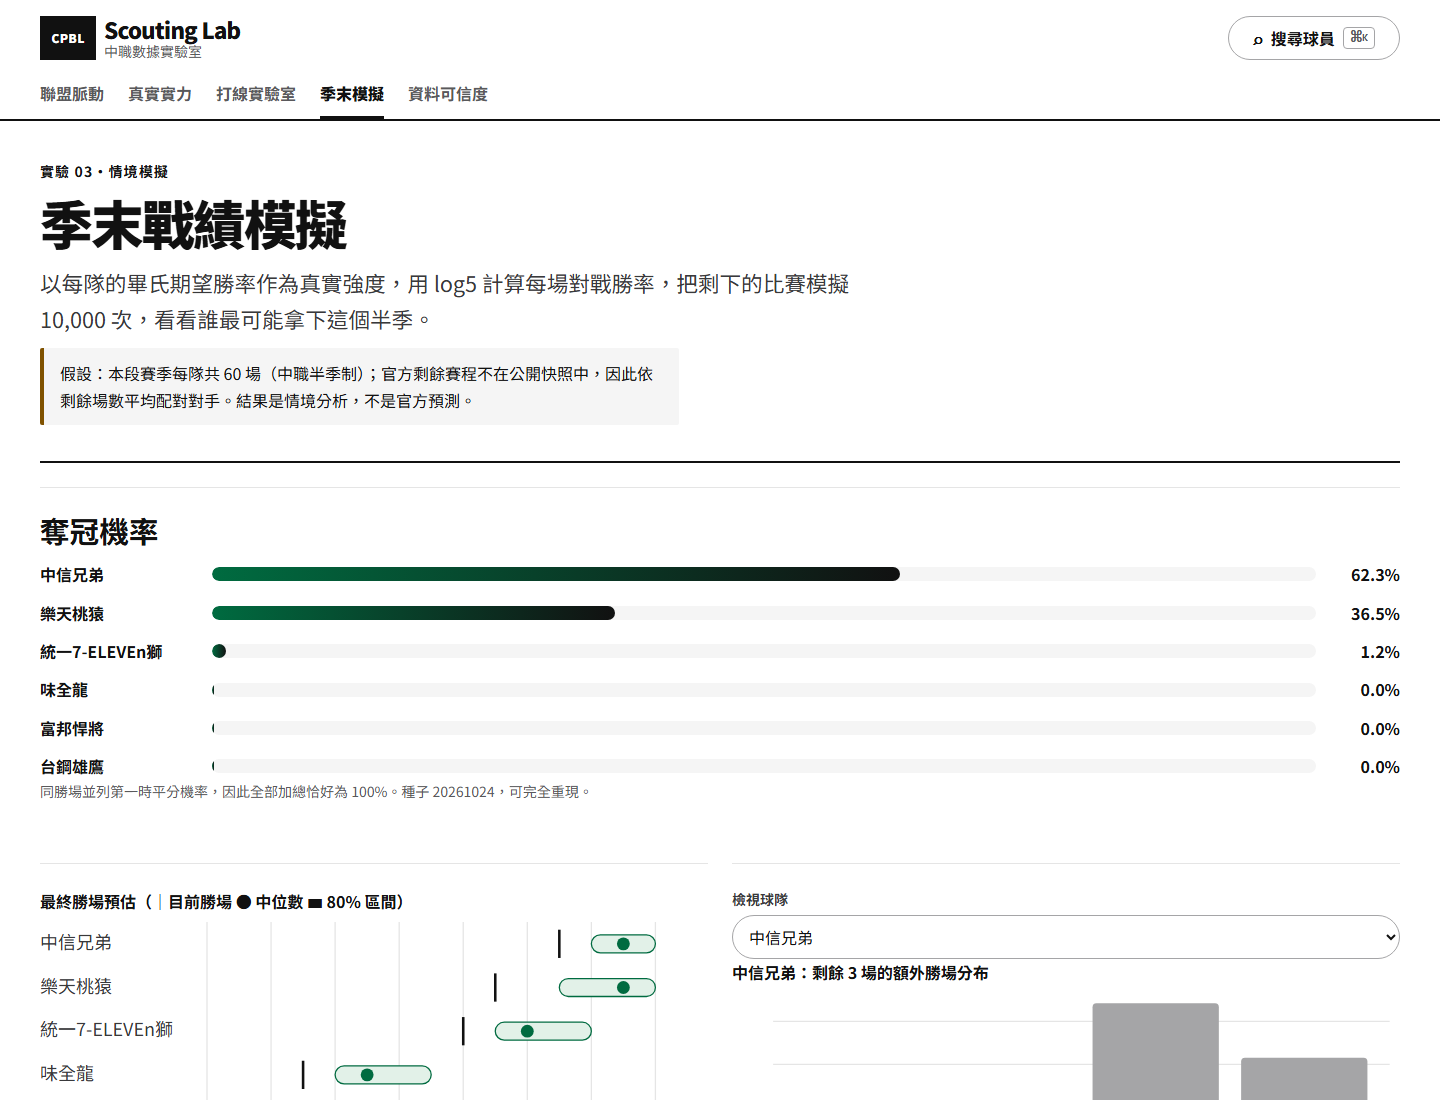
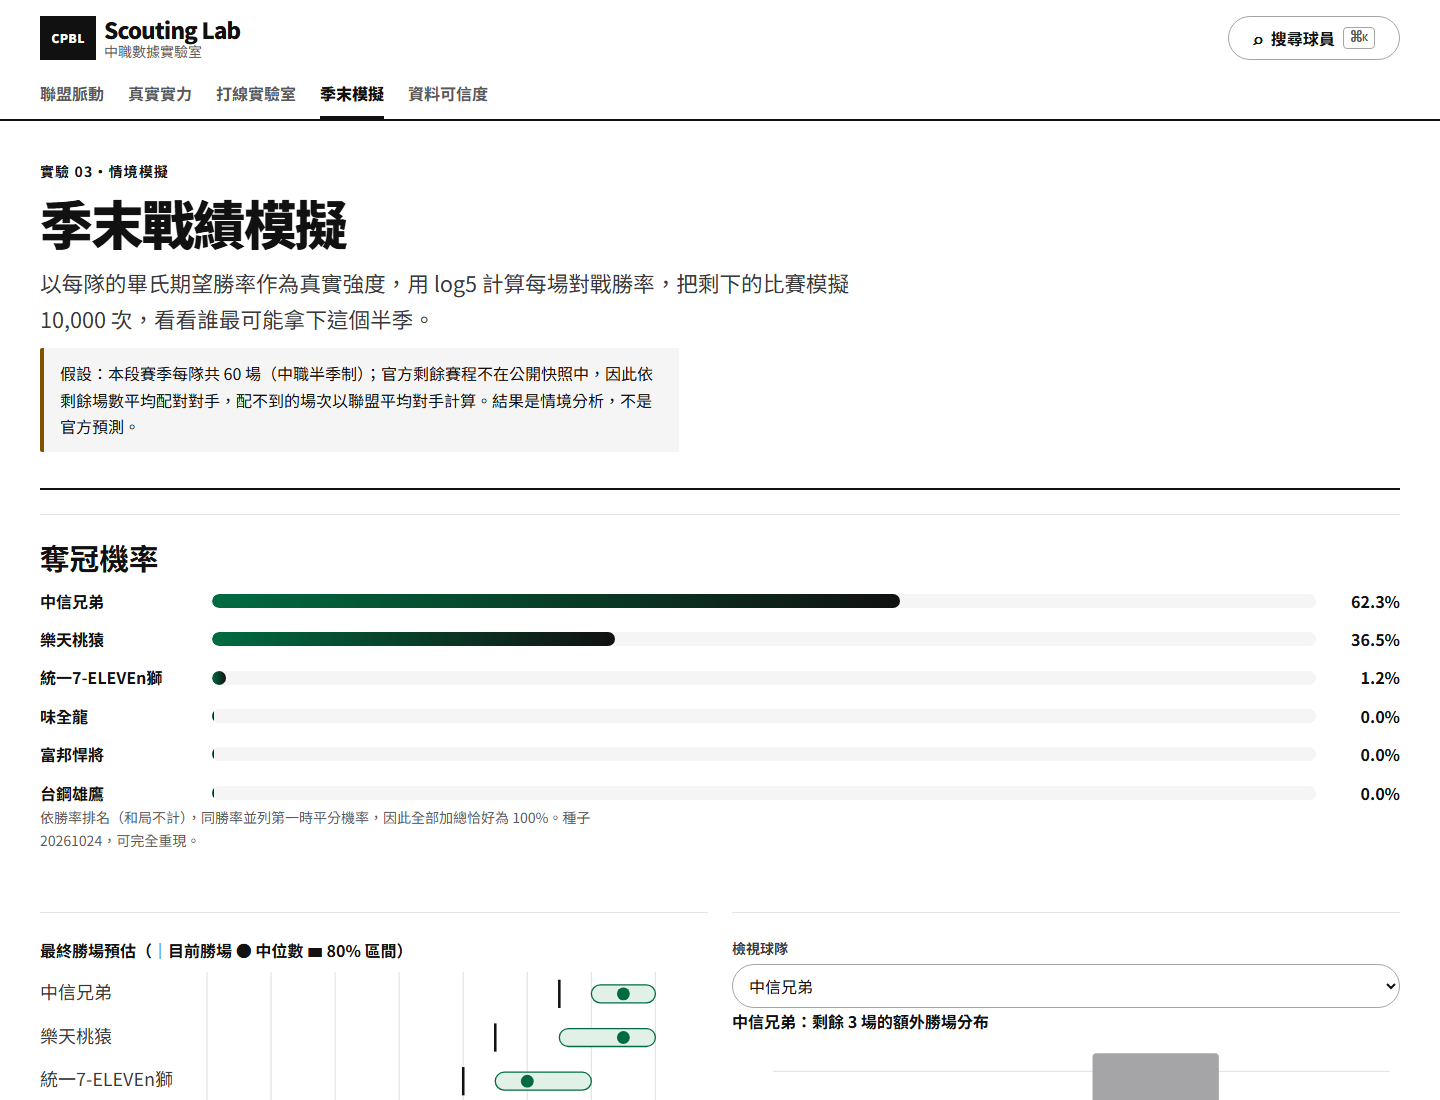
docs: describe each page and state the win-percentage ranking (#61)
The season page and model card still described ties on wins and did not
mention league-average opponents for unmatched games; both now match the
simulation. The README gains a feature list and the season screenshot is
recaptured.

diff --git a/web/src/routes/Season.tsx b/web/src/routes/Season.tsx
@@ -23,7 +23,7 @@ function SeasonView({ league }: { league: LeagueData }) {
           以每隊的畢氏期望勝率作為真實強度，用 log5 計算每場對戰勝率，把剩下的比賽模擬 {league.simulations.toLocaleString()} 次，看看誰最可能拿下這個半季。
         </p>
         <p className="notice">
-          假設：本段賽季每隊共 {league.segment_games} 場（中職半季制）；官方剩餘賽程不在公開快照中，因此依剩餘場數平均配對對手。結果是情境分析，不是官方預測。
+          假設：本段賽季每隊共 {league.segment_games} 場（中職半季制）；官方剩餘賽程不在公開快照中，因此依剩餘場數平均配對對手，配不到的場次以聯盟平均對手計算。結果是情境分析，不是官方預測。
         </p>
       </header>
 
@@ -40,7 +40,7 @@ function SeasonView({ league }: { league: LeagueData }) {
             </li>
           ))}
         </ul>
-        <p className="muted small">同勝場並列第一時平分機率，因此全部加總恰好為 100%。種子 {league.seed}，可完全重現。</p>
+        <p className="muted small">依勝率排名（和局不計），同勝率並列第一時平分機率，因此全部加總恰好為 100%。種子 {league.seed}，可完全重現。</p>
       </section>
 
       <section className="grid grid-2">

diff --git a/README.md b/README.md
@@ -7,28 +7,37 @@
 
 **[開啟線上展示](https://lily09-project.github.io/CPBL-baseball/)**
 
-![CPBL Scouting Lab 桌面畫面](docs/screenshots/pages-desktop.png)
+| 桌面版 | 手機版 |
+| --- | --- |
+| ![CPBL Scouting Lab 桌面畫面](docs/screenshots/pages-desktop.png) | ![CPBL Scouting Lab 手機畫面](docs/screenshots/pages-mobile.png) |
 
 ## 功能
 
-- 球員能力估計、趨勢、相似度與比較
-- Empirical Bayes 小樣本修正、log5 對戰估計與 Monte Carlo 模擬
-- 可篩選、比較及下載的球員資料
-- 資料快照與 SHA-256 完整性驗證
+- **真實實力**：以 Empirical Bayes 修正小樣本，估計打者與投手的真實能力、趨勢與相似球員，可比較與下載
+- **球員檔案**：單一球員的能力估計區間、趨勢與相似球員
+- **打線實驗室**：以 log5 估計對戰結果，用 Monte Carlo 模擬每場得分，比較不同打序
+- **季末模擬**：用 Monte Carlo 模擬剩餘賽程，依勝率（和局不計）估計各隊奪得半季第一的機率
+- **資料可信度**：資料快照與 SHA-256 完整性驗證
 
-## 資料與評估邊界
-
-官方 CPBL 資料來源包含[球員](https://www.cpbl.com.tw/player)、[戰績](https://www.cpbl.com.tw/standings/season)及[成績統計](https://www.cpbl.com.tw/stats/recordall)等公開頁面。資料經過資料品質與可稽核性檢查後保存為版本化快照；網站使用靜態資料，不是即時服務。這是非 CPBL 官方服務，估計與模擬僅供研究和情境比較，不代表官方預測。
-
-## 技術與畫面
-
-Python 資料處理與分析、React、TypeScript、Vite、Web Worker；GitHub Pages 提供靜態網站。介面採黑白運動報刊風格，設計原則見 [DESIGN.md](DESIGN.md)。
+## 畫面
 
 | 打線實驗室 | 真實實力估計 |
 | --- | --- |
 | ![打線實驗室](docs/screenshots/lineup-lab.png) | ![真實實力估計](docs/screenshots/talent.png) |
 | **球員檔案** | **季末戰績模擬** |
 | ![球員檔案](docs/screenshots/player-profile.png) | ![季末戰績模擬](docs/screenshots/season.png) |
+
+截圖取自正式網站的 CPBL 公開資料快照。
+
+## 資料與評估邊界
+
+官方 CPBL 資料來源包含[球員](https://www.cpbl.com.tw/player)、[戰績](https://www.cpbl.com.tw/standings/season)及[成績統計](https://www.cpbl.com.tw/stats/recordall)等公開頁面。每天台北時間 00:15 自動抓取，資料經過資料品質與可稽核性檢查後，以 PR 更新版本化快照；任何頁面抓取不完整或分頁不一致都會停止，不會發布部分資料。網站使用靜態資料，不是即時服務。
+
+這是非 CPBL 官方服務，估計與模擬僅供研究和情境比較，不代表官方預測。
+
+## 技術
+
+Python 資料處理與分析、React、TypeScript、Vite、Web Worker；GitHub Pages 提供靜態網站。介面採黑白運動報刊風格，設計原則見 [DESIGN.md](DESIGN.md)。
 
 ## 本機執行與驗證
 

diff --git a/docs/MODEL_CARD.md b/docs/MODEL_CARD.md
@@ -41,8 +41,8 @@
 
 - **強度**：畢氏期望勝率（指數 1.83），只看得失分。
 - **單場勝率**：log5(p_A, p_B)。
-- **賽程**：官方剩餘賽程不在公開快照中，因此假設本段賽季每隊 60 場（中職半季制），以「剩餘場數最多的兩隊、交手次數最少者優先」的確定性方式配對。
-- **模擬**：10,000 次（種子 20261024）；同勝場並列第一時平分機率，因此各隊奪冠機率總和恰為 1。
+- **賽程**：官方剩餘賽程不在公開快照中，因此假設本段賽季每隊 60 場（中職半季制），以「剩餘場數最多的兩隊、交手次數最少者優先」的確定性方式配對；剩餘場數不平衡或總數為奇數而配不到的場次，改對聯盟平均對手（勝率即該隊自身強度）模擬，確保每隊模擬場數等於剩餘場數。
+- **模擬**：10,000 次（種子 20261024）；依勝率排名（和局不計），同勝率並列第一時平分機率，因此各隊奪冠機率總和恰為 1。
 
 **限制**：強度在剩餘賽程中固定不變，不考慮傷兵、輪值與主客場；配對規則只是近似。
 
